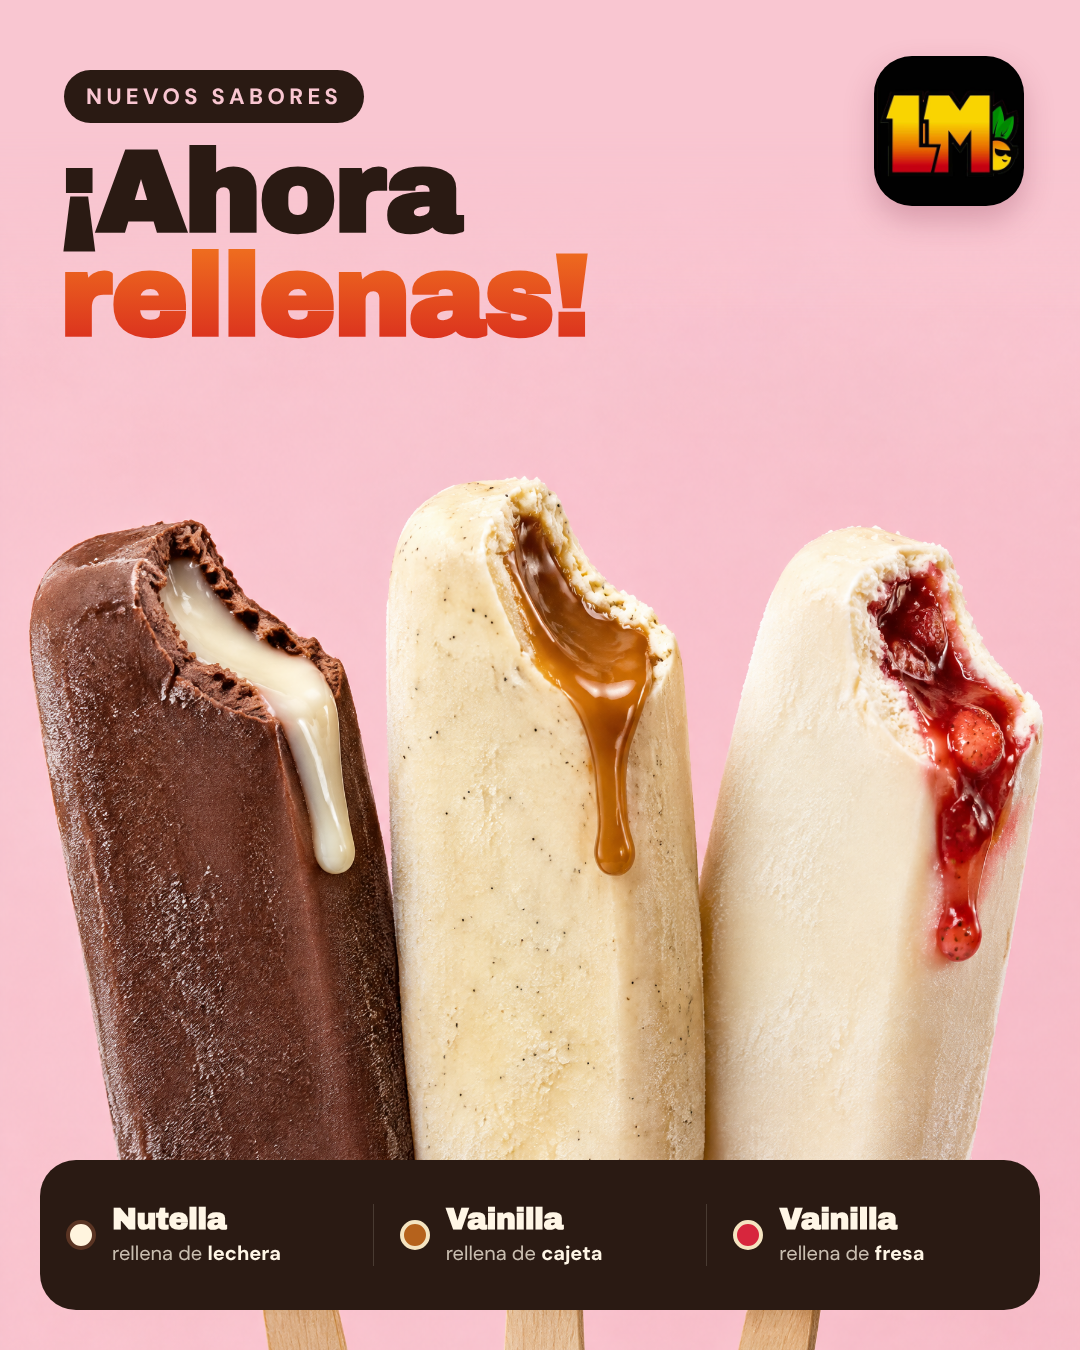
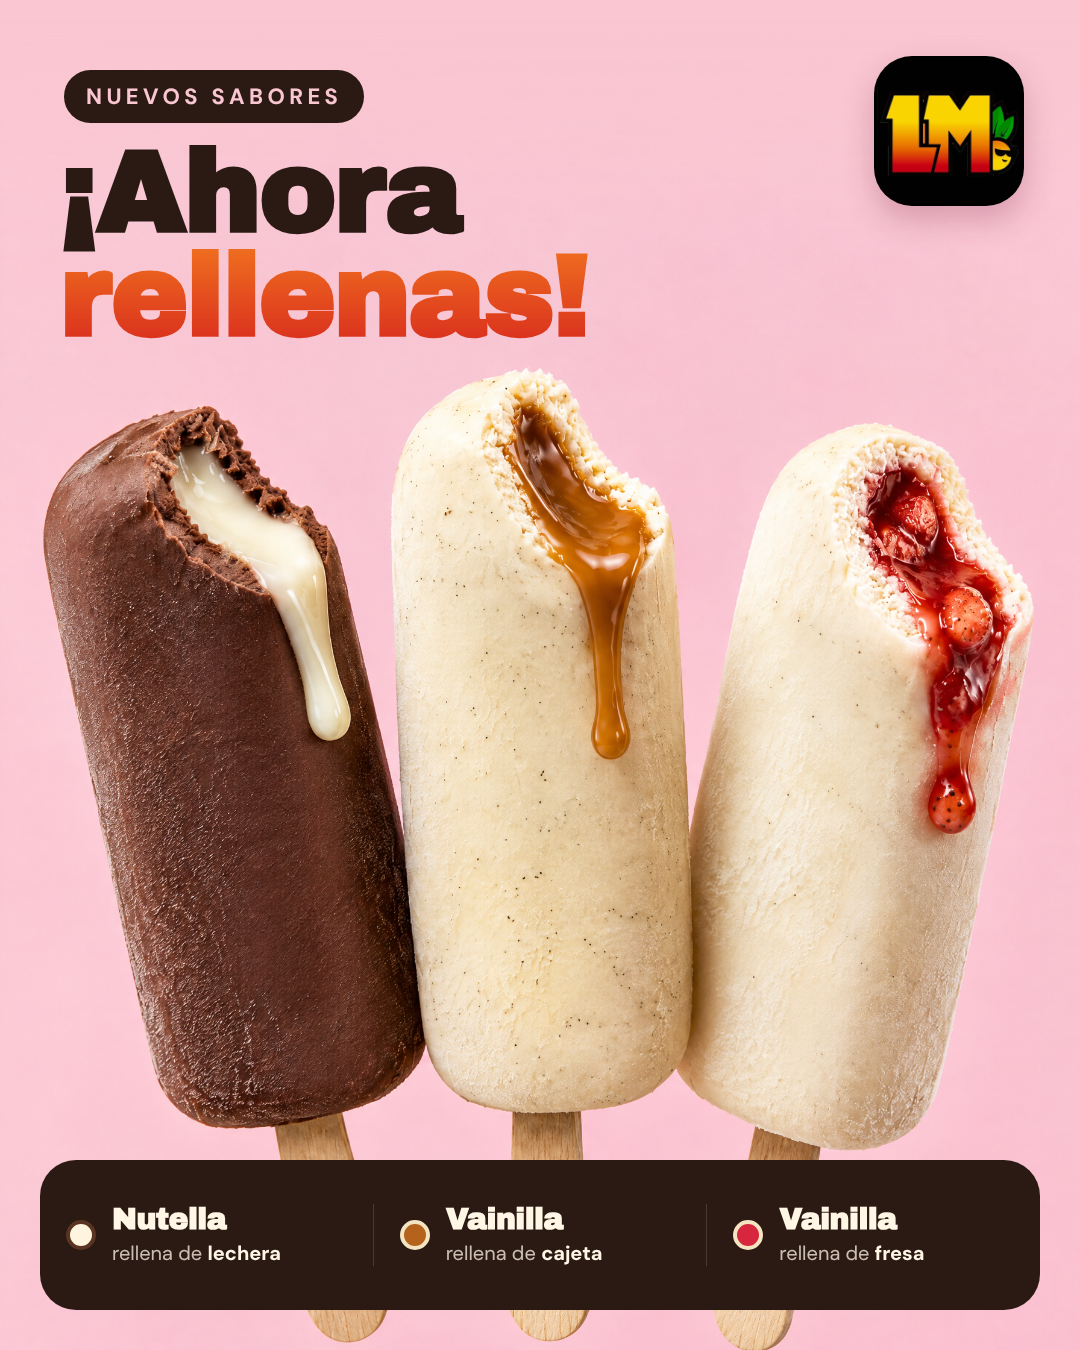
Use round filled-paletas image; add story version
Claude-Session: https://claude.ai/code/session_01Mes8FZkG7tExhsqtTHZMgj

diff --git a/lindo-michoacan-flyers/src/16-rellenas-story.html b/lindo-michoacan-flyers/src/16-rellenas-story.html
@@ -1,0 +1,27 @@
+<!doctype html><html><head><meta charset="utf-8"><link rel="stylesheet" href="base.css"><style>
+html,body{height:1920px}
+body{background:#F9C6D1;color:var(--choco)}
+.photo{position:absolute;left:0;top:400px;width:1080px;
+  -webkit-mask-image:linear-gradient(180deg,transparent 0,#000 14%)}
+.badge{position:absolute;top:140px;left:50%;margin-left:-90px;width:180px;height:180px;border-radius:38px;background:#000 url(../assets/logo-negro.jpg) center/96% no-repeat;box-shadow:0 14px 30px rgba(120,30,60,.25)}
+.kick{position:absolute;top:370px;left:50%;transform:translateX(-50%);background:var(--choco);color:#F9C6D1;font-weight:700;font-size:22px;letter-spacing:.2em;text-transform:uppercase;padding:12px 22px;border-radius:999px}
+h1{position:absolute;top:450px;left:0;right:0;text-align:center;font-size:150px;line-height:.9}
+h1 .g{background:linear-gradient(180deg,#F2771F 0%,#D7261E 100%);-webkit-background-clip:text;color:transparent}
+.band{position:absolute;left:40px;right:40px;bottom:120px;height:170px;border-radius:36px;background:var(--choco);color:var(--cream);display:flex;align-items:center}
+.f{flex:1;display:flex;align-items:center;gap:16px;padding:0 26px}
+.f + .f{border-left:1px solid rgba(255,246,230,.15)}
+.dot{flex:none;width:30px;height:30px;border-radius:50%;border:4px solid}
+.f h3{font-size:30px;line-height:1}
+.f p{font-size:20px;margin-top:6px;color:rgba(255,246,230,.75)}
+.f p b{color:var(--cream)}
+</style></head><body class="story">
+<img class="photo" src="../assets/rellenas.png">
+<div class="kick">Nuevos sabores</div>
+<h1 class="display">¡Ahora<br><span class="g">rellenas!</span></h1>
+<div class="badge"></div>
+<div class="band">
+ <div class="f"><span class="dot" style="background:#FFF4DE;border-color:#5A3423"></span><div><h3 class="display">Nutella</h3><p>rellena de <b>lechera</b></p></div></div>
+ <div class="f"><span class="dot" style="background:#B5621C;border-color:#F4E4C1"></span><div><h3 class="display">Vainilla</h3><p>rellena de <b>cajeta</b></p></div></div>
+ <div class="f"><span class="dot" style="background:#D7263D;border-color:#F4E4C1"></span><div><h3 class="display">Vainilla</h3><p>rellena de <b>fresa</b></p></div></div>
+</div>
+</body></html>

diff --git a/lindo-michoacan-flyers/src/15-rellenas-foto.html b/lindo-michoacan-flyers/src/15-rellenas-foto.html
@@ -1,6 +1,6 @@
 <!doctype html><html><head><meta charset="utf-8"><link rel="stylesheet" href="base.css"><style>
 body{background:#F9C6D1;color:var(--choco)}
-.photo{position:absolute;left:0;top:130px;width:1080px;
+.photo{position:absolute;left:0;top:20px;width:1080px;
   -webkit-mask-image:linear-gradient(180deg,transparent 0,#000 14%)}
 .badge{position:absolute;top:56px;right:56px;width:150px;height:150px;border-radius:38px;background:#000 url(../assets/logo-negro.jpg) center/96% no-repeat;box-shadow:0 14px 30px rgba(120,30,60,.25)}
 .kick{position:absolute;top:70px;left:64px;background:var(--choco);color:#F9C6D1;font-weight:700;font-size:22px;letter-spacing:.2em;text-transform:uppercase;padding:12px 22px;border-radius:999px}
